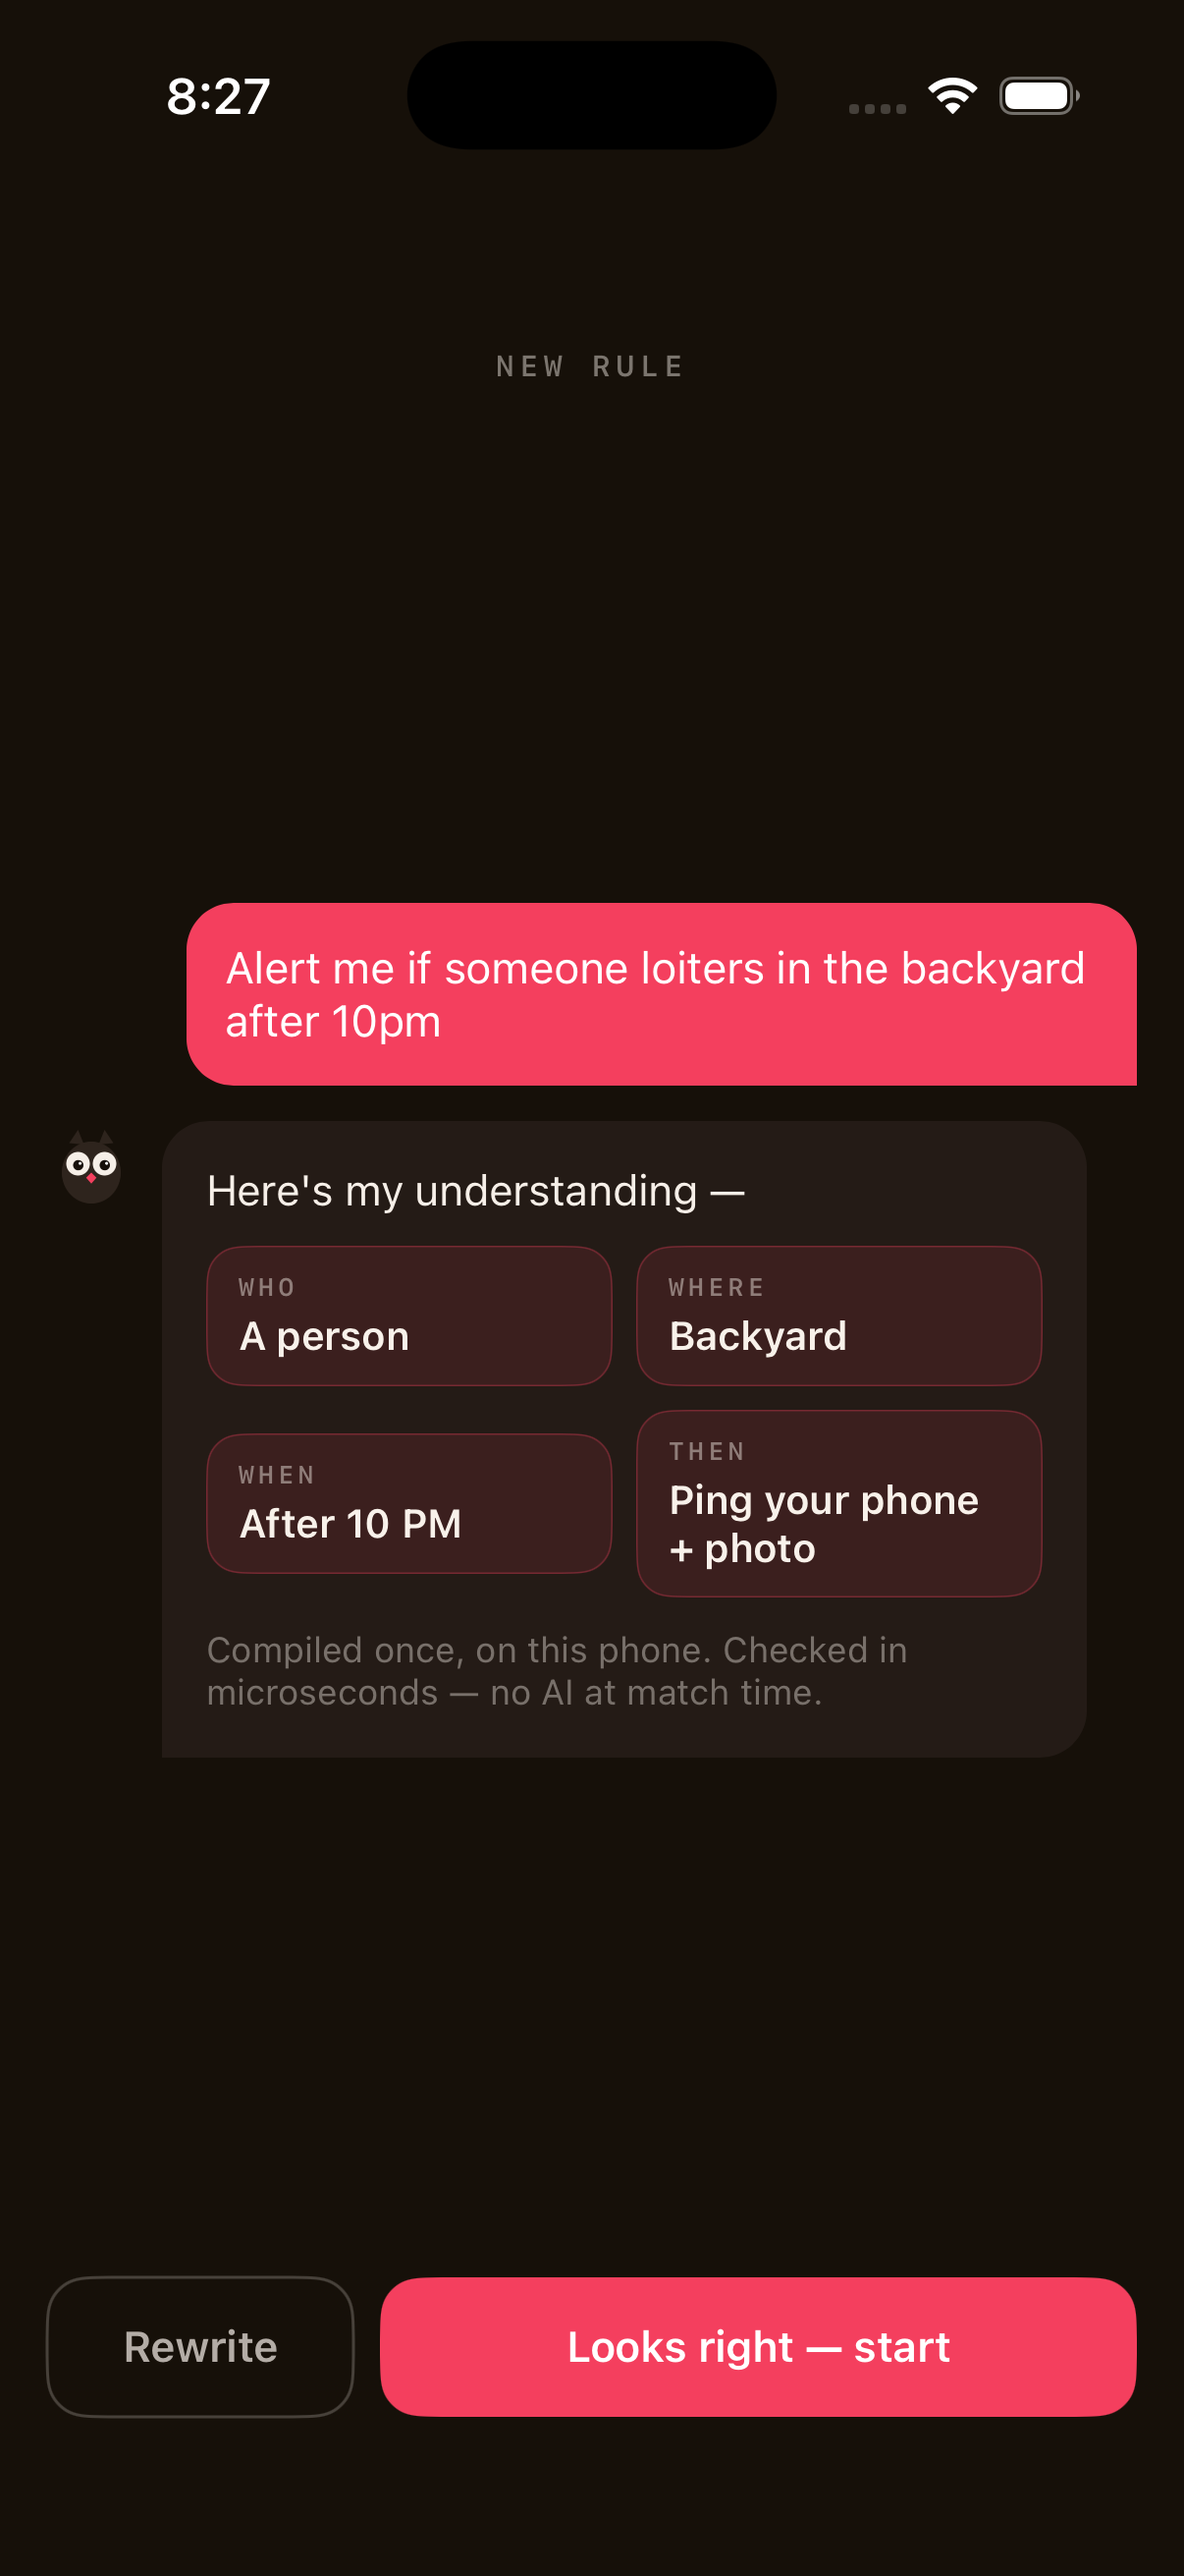
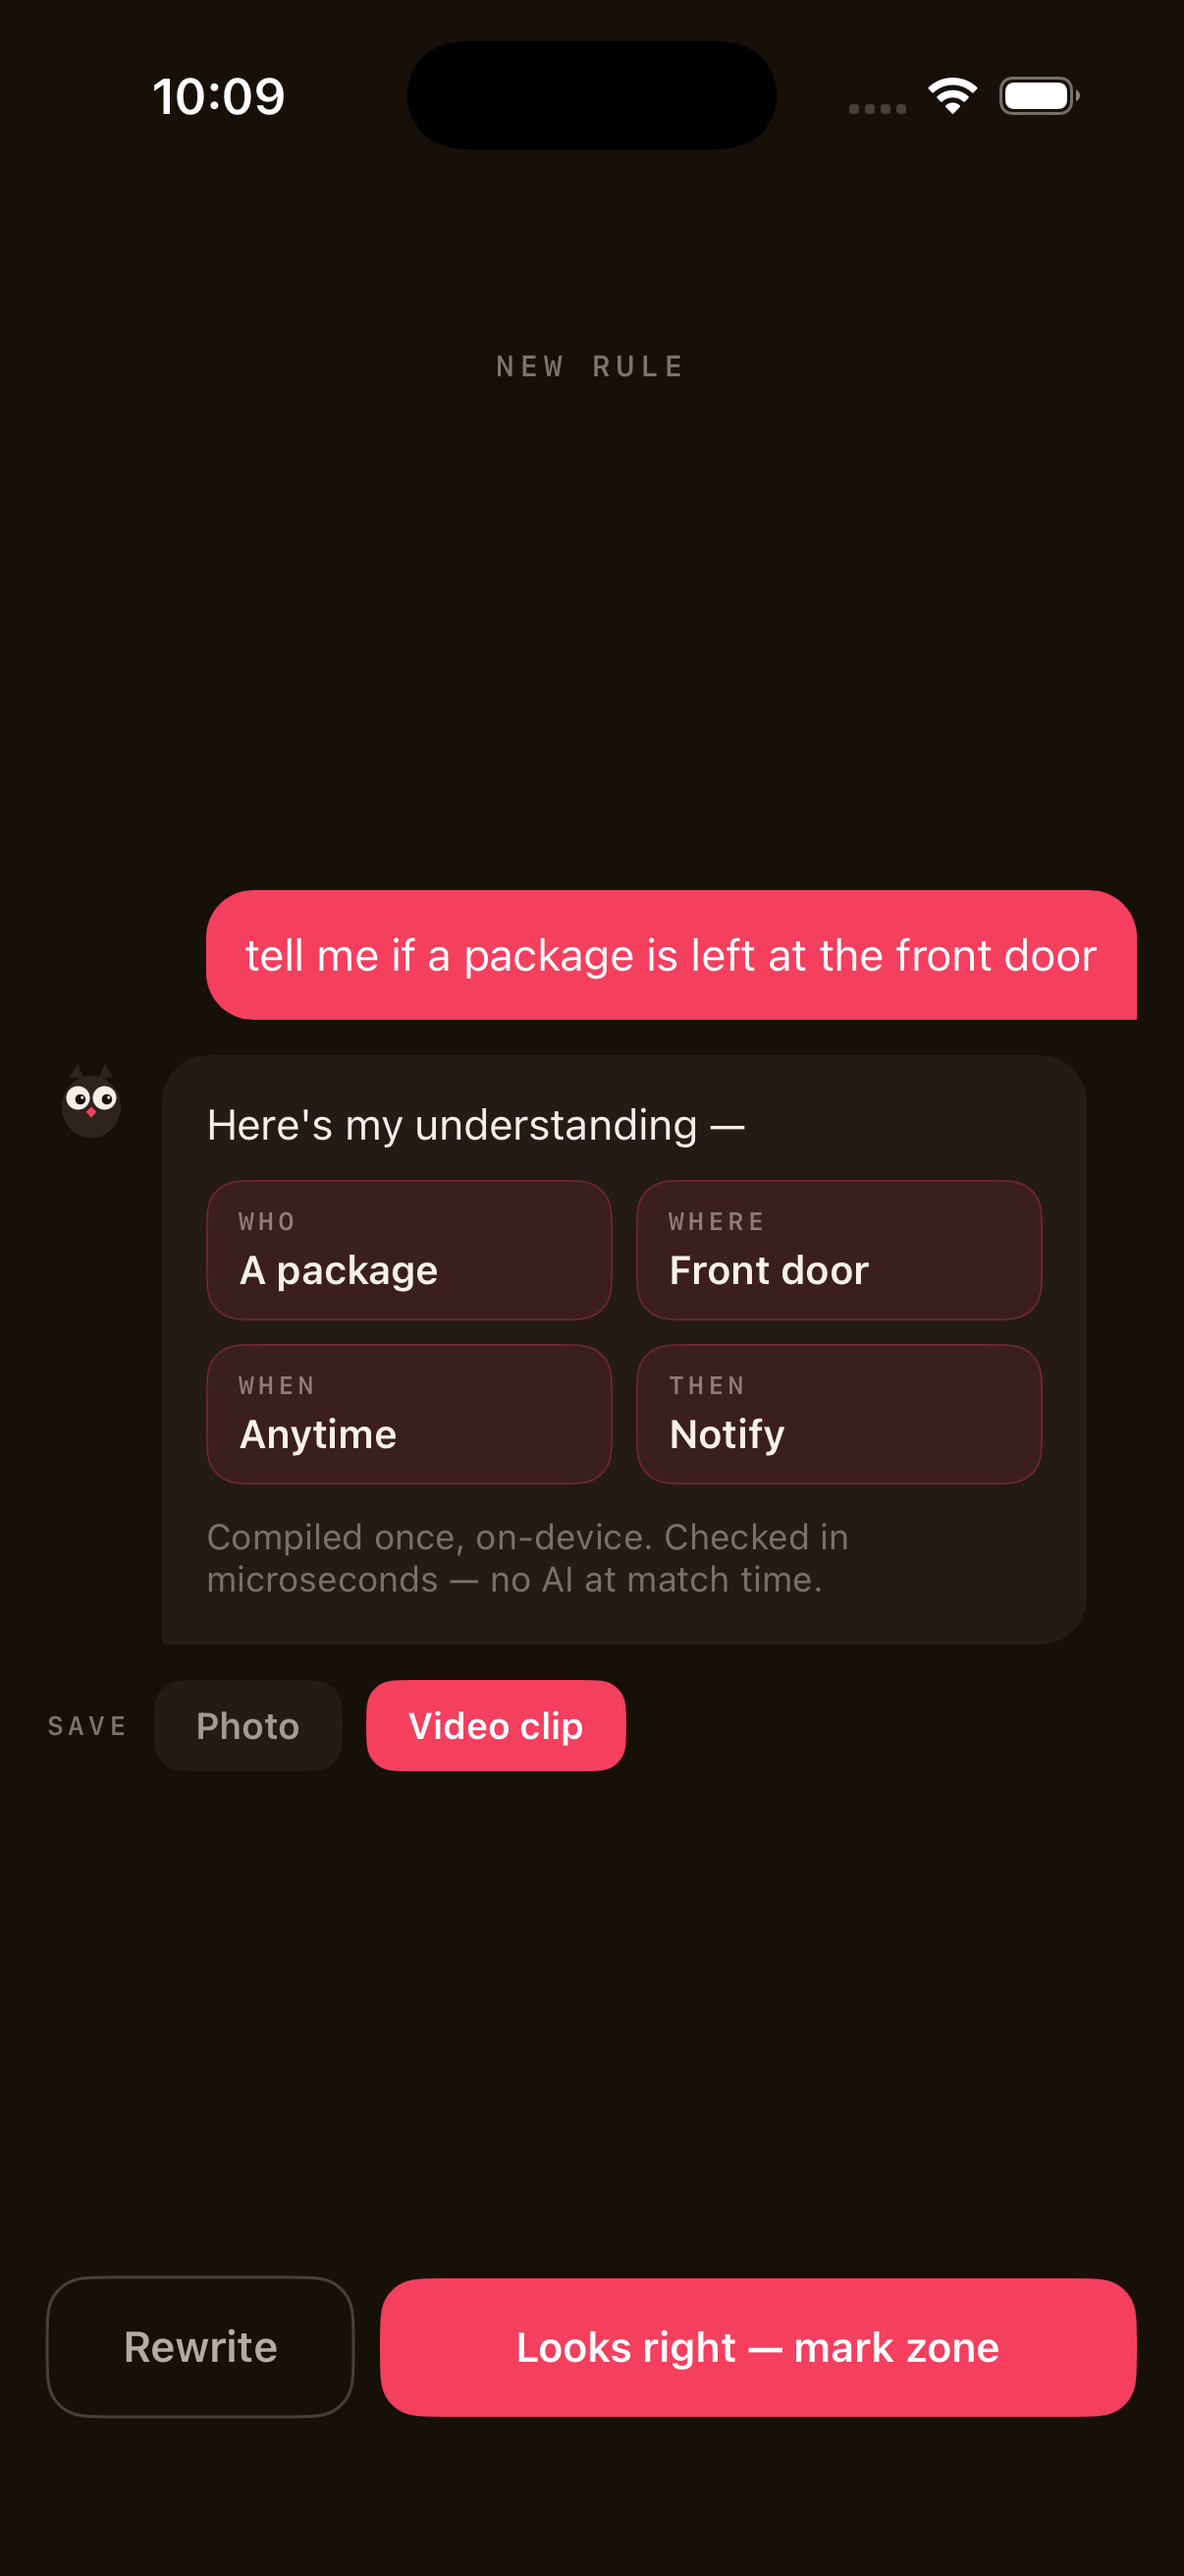
cleanup: fix Simulator re-fire, rule delete, device-aware copy, refresh shots
Clears the audit leftovers so the iOS build is honest and the demo is clean:
- Scripted Tier-2 is now content-aware (person only when the candidate crop has
  a real figure), so 'appears' re-arms when the figure leaves — the Simulator
  demo fires each pass instead of once per session (verified: Alerts climbs 1→2).
- Rules can be deleted (trash per row); 'frames never leave this Mac/phone' is
  device-aware.
- Refreshed screenshots to the current app (confirm Photo/Clip choice, rules
  with delete, personalized alert with real rule text + zone + time + snapshot,
  no Home Assistant line). Engine tests 23/23.

diff --git a/shells/ios/Sources/ContentView.swift b/shells/ios/Sources/ContentView.swift
@@ -242,17 +242,21 @@ struct RulesView: View {
                 (Text("The ").foregroundColor(NW.cream) + Text("watch list").foregroundColor(NW.rose).italic() + Text(".").foregroundColor(NW.cream)).font(NW.serif(32))
                 Spacer(); MonoLabel(text: "\(armed) ARMED", opacity: 0.4); OttoOwl(size: 34, showBelly: false)
             }.padding(.top, 56)
-            HStack(spacing: 10) { BreatheDot(color: NW.green); Text("Ready to guard · frames never leave the phone").font(.system(size: 13.5)).foregroundColor(NW.muted(0.8)); Spacer() }
+            HStack(spacing: 10) { BreatheDot(color: NW.green); Text("Ready to guard · frames never leave this \(deviceWord)").font(.system(size: 13.5)).foregroundColor(NW.muted(0.8)); Spacer() }
                 .padding(13).background(NW.card).cornerRadius(16)
             ForEach($rules) { $r in
-                HStack(spacing: 12) {
+                HStack(spacing: 10) {
                     ZStack { RoundedRectangle(cornerRadius: 10).fill(r.on ? NW.rose.opacity(0.14) : NW.muted(0.07)).frame(width: 34, height: 34)
                         Image(systemName: r.icon).font(.system(size: 15)).foregroundColor(r.on ? NW.rose : NW.muted(0.35)) }
                     VStack(alignment: .leading, spacing: 1) {
                         Text(r.title).font(.system(size: 14.5, weight: .semibold)).foregroundColor(NW.creamDim).lineLimit(1)
                         Text(r.sub).font(.system(size: 12)).foregroundColor(NW.muted(0.5))
                     }
-                    Spacer(); Toggle("", isOn: $r.on).labelsHidden().tint(NW.rose)
+                    Spacer()
+                    Button { rules.removeAll { $0.id == r.id } } label: {
+                        Image(systemName: "trash").font(.system(size: 13)).foregroundColor(NW.muted(0.35))
+                    }
+                    Toggle("", isOn: $r.on).labelsHidden().tint(NW.rose)
                 }.padding(13).background(NW.card).cornerRadius(16)
             }
             Button(action: onAdd) {

diff --git a/shells/ios/Sources/NightjarEngine.mm b/shells/ios/Sources/NightjarEngine.mm
@@ -321,7 +321,19 @@ BOOL contains_any(NSString* s, NSArray<NSString*>* keys) {
         if (worker->ok()) { _vlm = worker; _vlmName = @"SmolVLM-500M (INT4)"; return; }
     }
 #endif
-    _vlm = std::make_shared<ScriptedPredicateVlm>(std::map<std::string, bool>{{"person", true}}, 120);
+    // Scripted stand-in (Simulator / no model): recognizes "person" only, and is
+    // content-aware — true only when the candidate crop actually has a bright
+    // figure. That makes presence go false when the figure leaves, so a rising-
+    // edge ("appears") re-arms instead of firing just once per session.
+    _vlm = std::make_shared<ScriptedPredicateVlm>(
+        [](const CandidateFrame& c, const Predicate& p) {
+            if (p.id != "person") return false;
+            if (c.crop.empty()) return true;
+            size_t bright = 0;
+            for (uint8_t v : c.crop) if (v > 90) ++bright;
+            return bright * 100 >= c.crop.size() * 8;  // >=8% bright pixels => a figure is present
+        },
+        120);
     _vlmName = @"scripted";
 }
 
